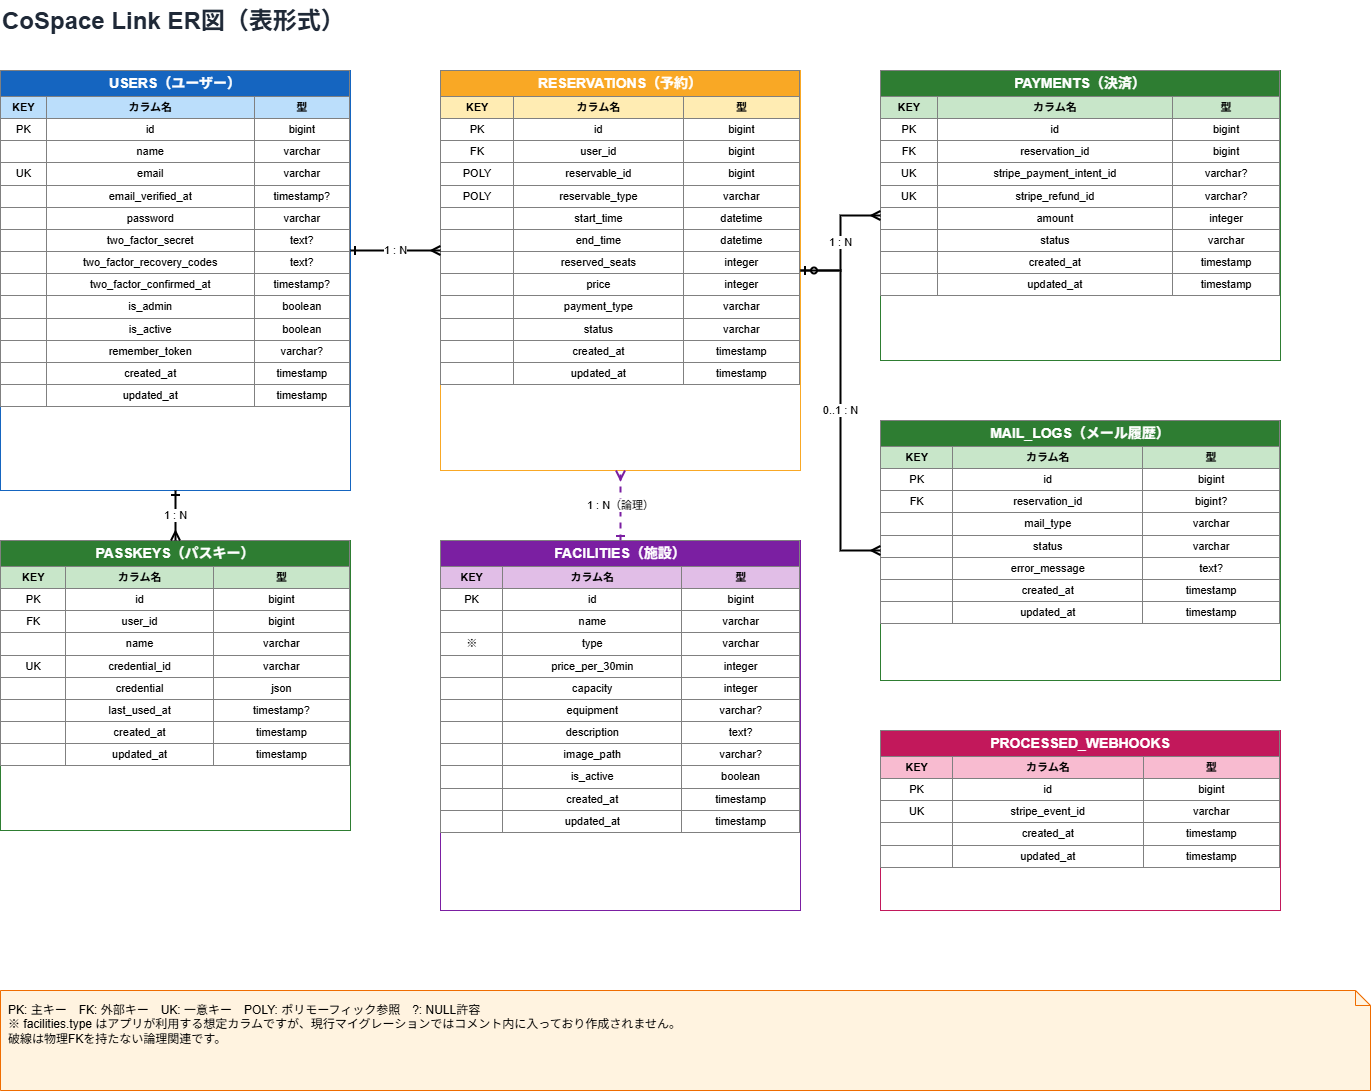
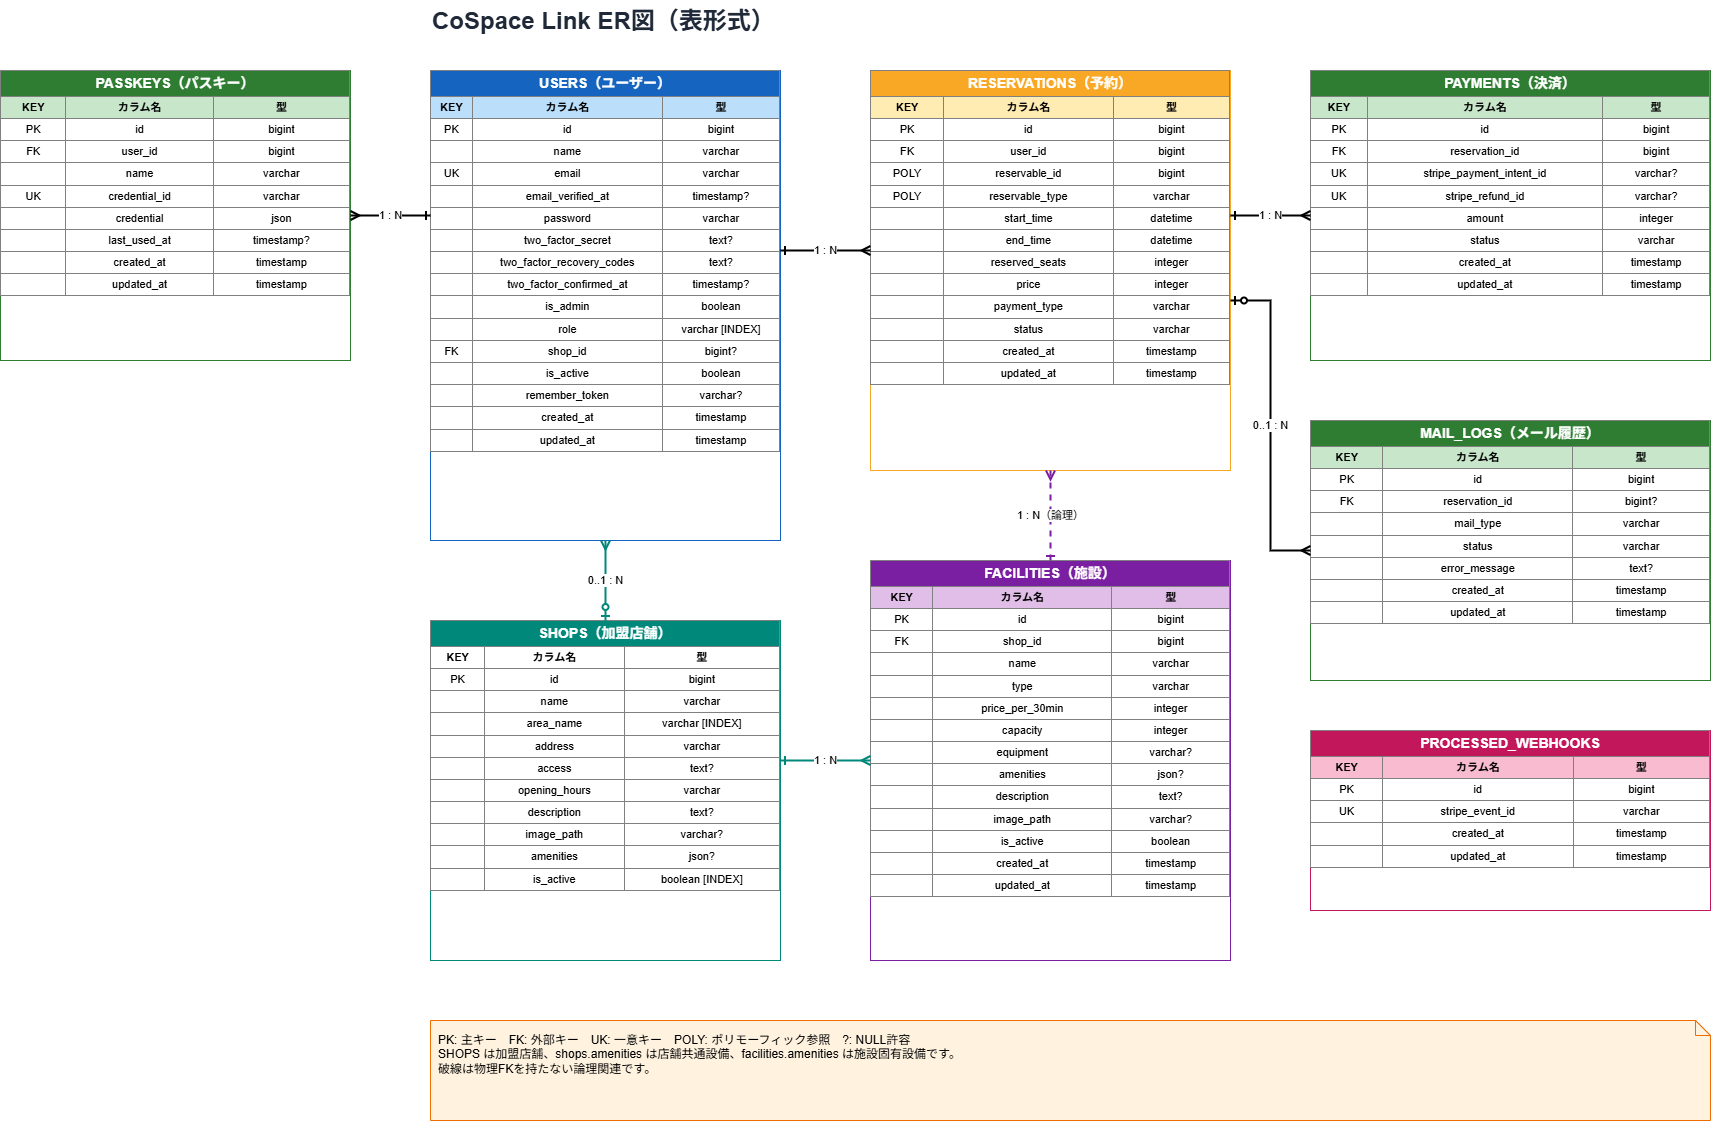
docs: ポータル化後のDB構造にER図を更新

diff --git a/docs/er-diagram.md b/docs/er-diagram.md
@@ -1,17 +1,34 @@
 # ER図
 
-このER図は `database/migrations` の定義を基準に、2026年7月25日時点の
+このER図は `database/migrations` の定義を基準に、2026年7月31日時点の
 データベース構造を表したものです。
 
 ## 業務テーブル
 
 ```mermaid
 erDiagram
+    SHOPS ||--o{ FACILITIES : "施設を所有する"
+    SHOPS o|--o{ USERS : "店舗管理者が所属する"
     USERS ||--o{ RESERVATIONS : "予約する"
     USERS ||--o{ PASSKEYS : "所有する"
     FACILITIES ||--o{ RESERVATIONS : "予約対象（論理関連）"
     RESERVATIONS ||--o{ PAYMENTS : "決済を持つ"
     RESERVATIONS o|--o{ MAIL_LOGS : "メール送信履歴を持つ"
+
+    SHOPS {
+        bigint id PK
+        varchar name
+        varchar area_name "INDEX"
+        varchar address
+        text access "NULL可"
+        varchar opening_hours
+        text description "NULL可"
+        varchar image_path "NULL可"
+        json amenities "NULL可・店舗共通設備"
+        boolean is_active "INDEX"
+        timestamp created_at
+        timestamp updated_at
+    }
 
     USERS {
         bigint id PK
@@ -23,6 +40,8 @@ erDiagram
         text two_factor_recovery_codes "NULL可"
         timestamp two_factor_confirmed_at "NULL可"
         boolean is_admin
+        varchar role "INDEX・user / shop_owner / system_admin"
+        bigint shop_id FK "NULL可・ON DELETE SET NULL"
         boolean is_active
         varchar remember_token "NULL可"
         timestamp created_at
@@ -42,11 +61,13 @@ erDiagram
 
     FACILITIES {
         bigint id PK
+        bigint shop_id FK "ON DELETE CASCADE"
         varchar name
         varchar type "meeting_room / area"
         integer price_per_30min
         integer capacity
         varchar equipment "NULL可"
+        json amenities "NULL可・施設固有設備"
         text description "NULL可"
         varchar image_path "NULL可"
         boolean is_active
@@ -100,6 +121,10 @@ erDiagram
 
 ### 関連の補足
 
+- `facilities.shop_id` → `shops.id` は物理外部キーです。店舗削除時に施設も削除されます。
+- `users.shop_id` → `shops.id` はNULL許容の物理外部キーです。店舗削除時はNULLへ更新されます。`shop_owner` は1店舗に所属する前提です。
+- `shops.amenities` はWi-Fi・電源・フリードリンクなどの店舗共通設備を保持します。
+- `facilities.amenities` はモニター・ホワイトボード・防音・Web会議ブース可などの施設固有設備を保持します。
 - `reservations.user_id` → `users.id` は物理外部キーです。ユーザー削除時に予約も削除されます。
 - `reservations.reservable_id` と `reservations.reservable_type` はLaravelのポリモーフィック関連です。現在の実装では `facilities` が予約対象ですが、データベース上の物理外部キーはありません。
 - `payments.reservation_id` → `reservations.id` は物理外部キーです。予約削除時に決済も削除されます。`reservation_id` に一意制約はないため、1予約に複数の決済レコードを保持できます。
